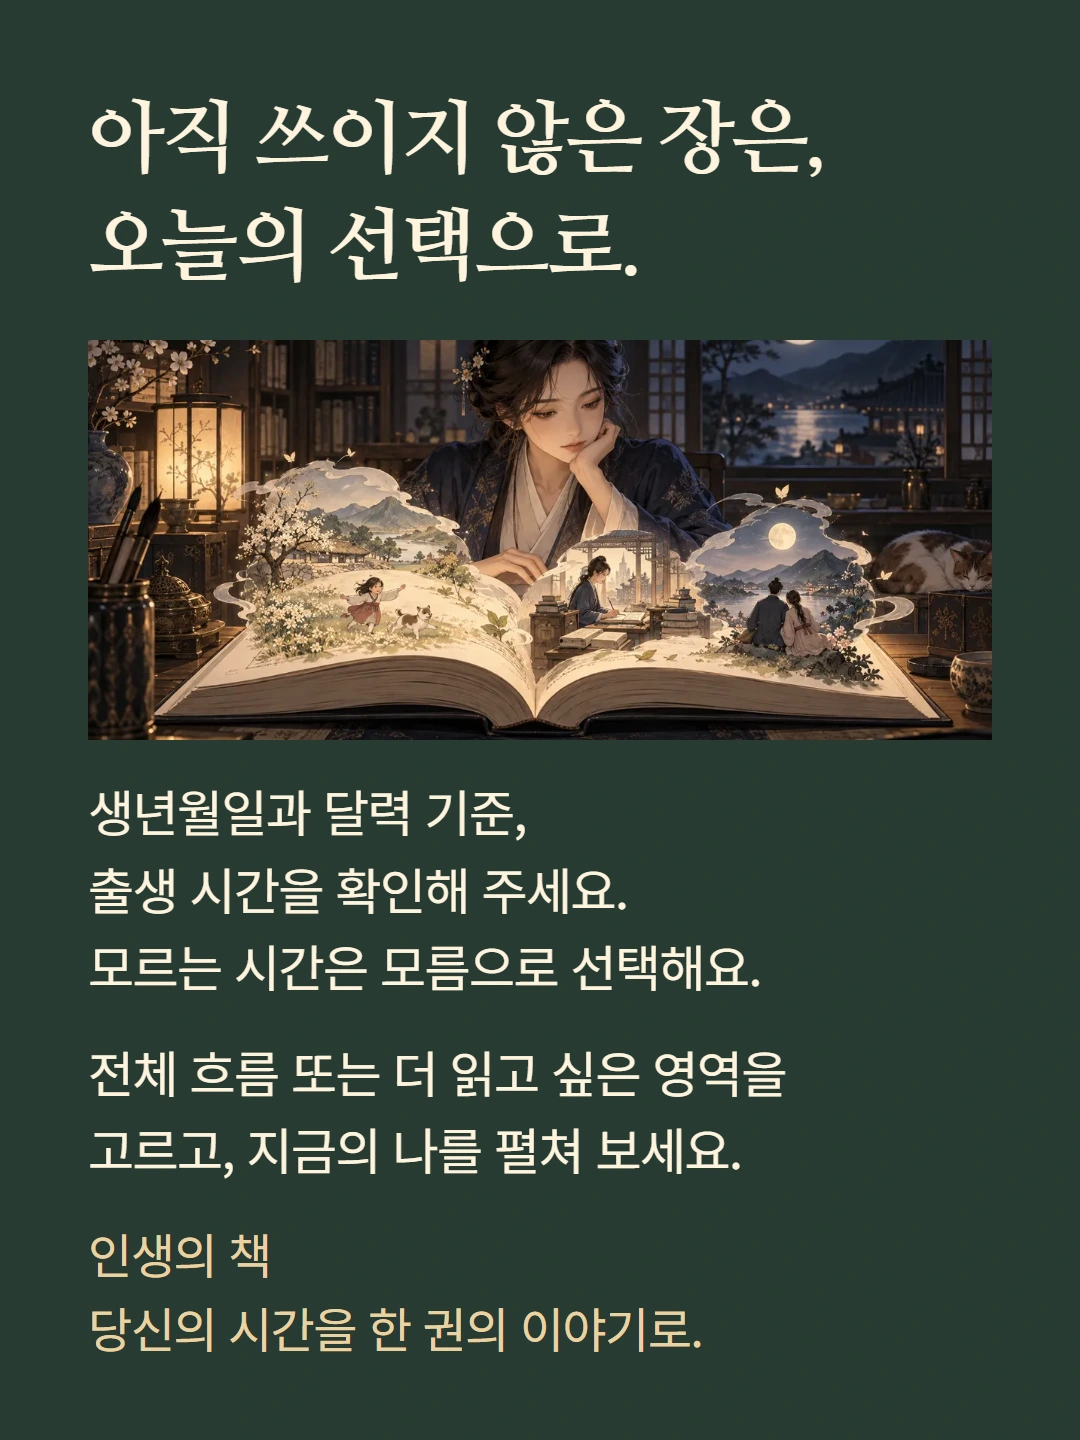
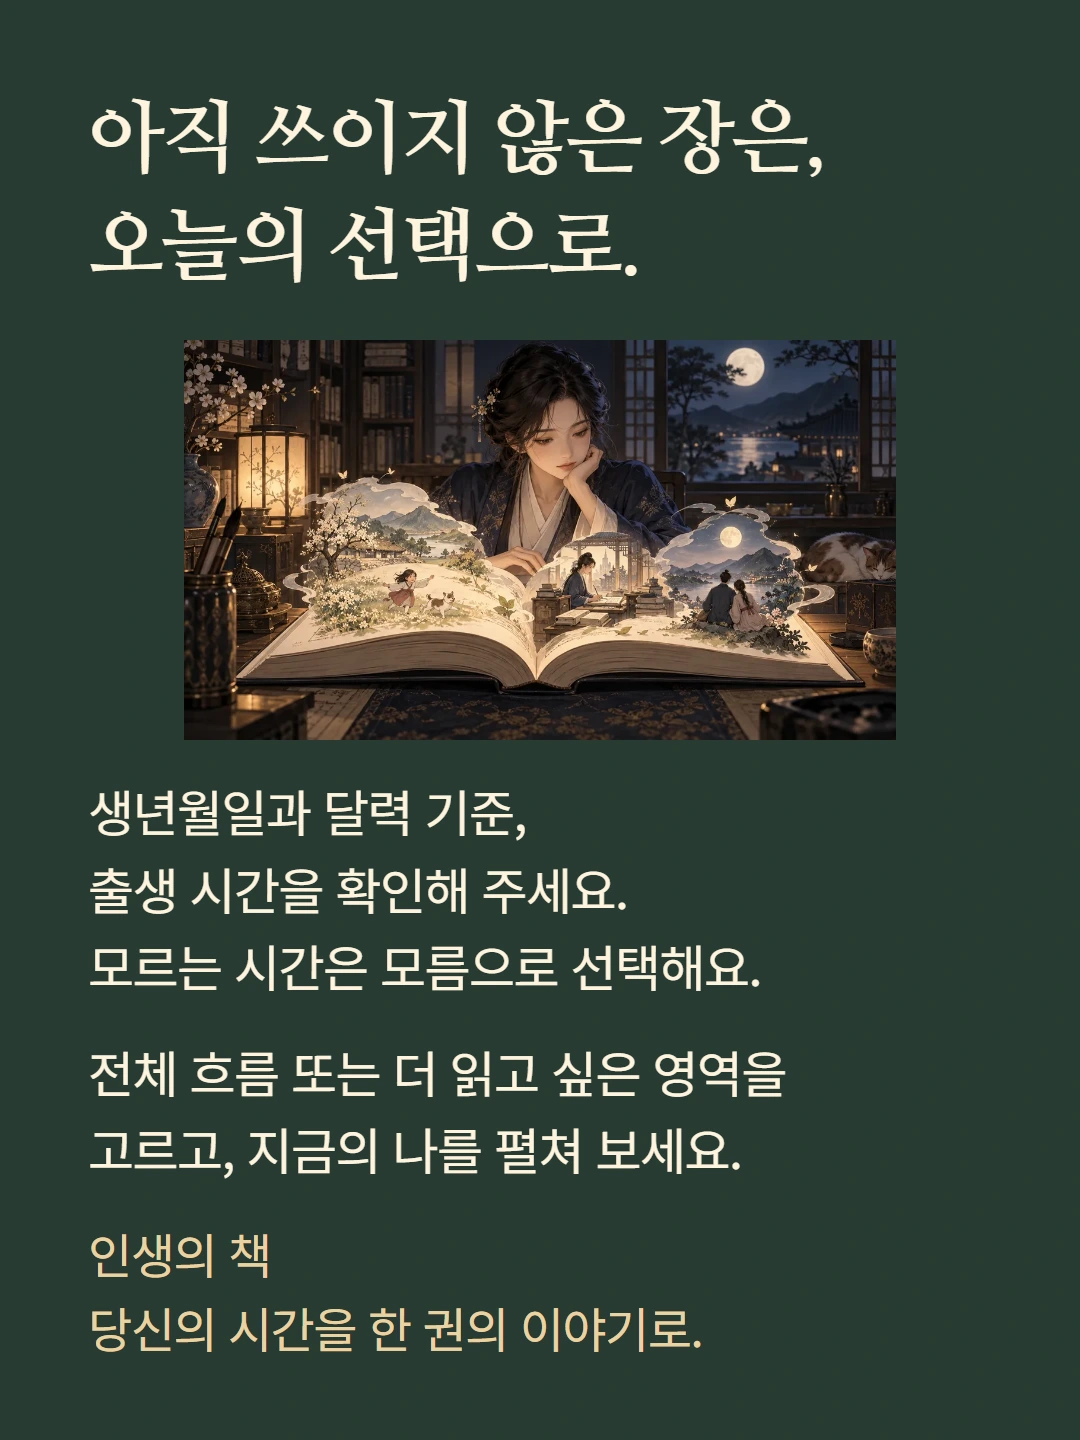
인생의 책 상세 1·8·10장: 잘리던 삽화를 원본 비율로 다시 렌더

Changed region(s): [[0.0611, 0.2188, 0.9167, 0.5312]]

diff --git a/content/product-details/life-book/layout.css b/content/product-details/life-book/layout.css
@@ -1,1 +1,1 @@
-*{box-sizing:border-box}body{margin:0;background:#f8f1e5;color:#3c3a30;font-family:'Yeongnyangi Noto',sans-serif}.panel{width:1080px;height:1440px;position:relative;overflow:hidden;padding:84px 88px;background:#f8f1e5}h1,h2,h3,p{margin:0;word-break:keep-all}h1,h2{font-family:'Yeongnyangi Myeongjo',serif;font-size:80px;line-height:1.35;letter-spacing:-2.7px;margin-bottom:40px}h3{font-size:48px;line-height:1.45;margin-bottom:14px}p{font-size:50px;line-height:1.55;letter-spacing:-1.5px}.label,.note{font-size:48px;line-height:1.5;color:#73694f}.label{margin-bottom:32px}.note{margin-top:30px}.p1,.p10{background:#283b33;color:#fff4de}.hero{display:block;width:904px;height:480px;object-fit:cover;margin:34px 0}.closing{font-size:48px;color:#ead2a1;margin-top:28px}.p2 blockquote,.review{margin:32px 0;padding:30px 0;border-block:1px solid #b7aa87;font-family:'Yeongnyangi Myeongjo',serif;font-size:62px;line-height:1.5}.rule{height:1px;background:#b7aa87;margin:40px 0}.grounds section{border-top:1px solid #b7aa87;padding:20px 0}.grounds p{font-size:48px}.grounds{margin-bottom:34px}.chapters{padding-left:70px;margin:36px 0 48px}.chapters li{font-size:50px;line-height:1.5;padding:24px 0;border-bottom:1px solid #b7aa87;word-break:keep-all;letter-spacing:-1.5px}.p4,.p5{background:#eee5d4}.deep section{padding:16px 0;border-top:1px solid #b7aa87}.deep p{font-size:48px}.paper{padding:36px 0;border-block:1px solid #b7aa87}.paper p+p{margin-top:34px}.reading{text-align:center;margin:20px 0 32px}.reading p{font-size:48px}.reading span{display:block;font-size:48px;color:#917f57}.scene{display:block;width:904px;height:280px;object-fit:cover;margin:24px 0}.final-scene{display:block;width:904px;height:400px;object-fit:cover;margin:32px 0}.p10 p+p{margin-top:28px}.review{font-size:58px}.p9 .note{font-size:48px}
+*{box-sizing:border-box}body{margin:0;background:#f8f1e5;color:#3c3a30;font-family:'Yeongnyangi Noto',sans-serif}.panel{width:1080px;height:1440px;position:relative;overflow:hidden;padding:84px 88px;background:#f8f1e5}h1,h2,h3,p{margin:0;word-break:keep-all}h1,h2{font-family:'Yeongnyangi Myeongjo',serif;font-size:80px;line-height:1.35;letter-spacing:-2.7px;margin-bottom:40px}h3{font-size:48px;line-height:1.45;margin-bottom:14px}p{font-size:50px;line-height:1.55;letter-spacing:-1.5px}.label,.note{font-size:48px;line-height:1.5;color:#73694f}.label{margin-bottom:32px}.note{margin-top:30px}.p1,.p10{background:#283b33;color:#fff4de}.hero{display:block;width:904px;height:auto;margin:34px 0}.closing{font-size:48px;color:#ead2a1;margin-top:28px}.p2 blockquote,.review{margin:32px 0;padding:30px 0;border-block:1px solid #b7aa87;font-family:'Yeongnyangi Myeongjo',serif;font-size:62px;line-height:1.5}.rule{height:1px;background:#b7aa87;margin:40px 0}.grounds section{border-top:1px solid #b7aa87;padding:20px 0}.grounds p{font-size:48px}.grounds{margin-bottom:34px}.chapters{padding-left:70px;margin:36px 0 48px}.chapters li{font-size:50px;line-height:1.5;padding:24px 0;border-bottom:1px solid #b7aa87;word-break:keep-all;letter-spacing:-1.5px}.p4,.p5{background:#eee5d4}.deep section{padding:16px 0;border-top:1px solid #b7aa87}.deep p{font-size:48px}.paper{padding:36px 0;border-block:1px solid #b7aa87}.paper p+p{margin-top:34px}.reading{text-align:center;margin:20px 0 32px}.reading p{font-size:48px}.reading span{display:block;font-size:48px;color:#917f57}.scene{display:block;width:auto;max-width:904px;height:280px;margin:24px auto}.final-scene{display:block;width:auto;max-width:904px;height:400px;margin:32px auto}.p10 p+p{margin-top:28px}.review{font-size:58px}.p9 .note{font-size:48px}
